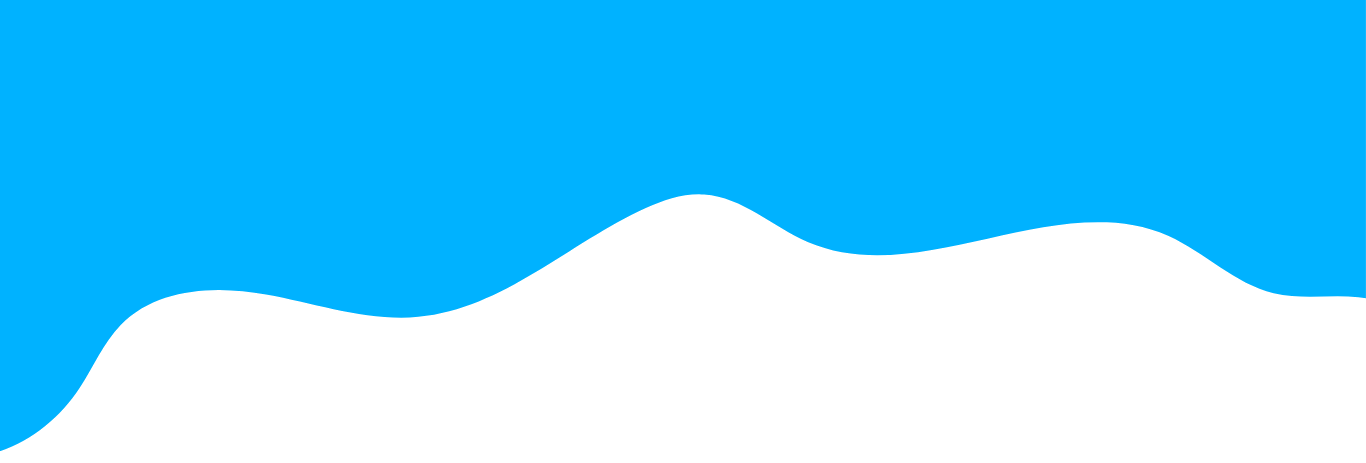
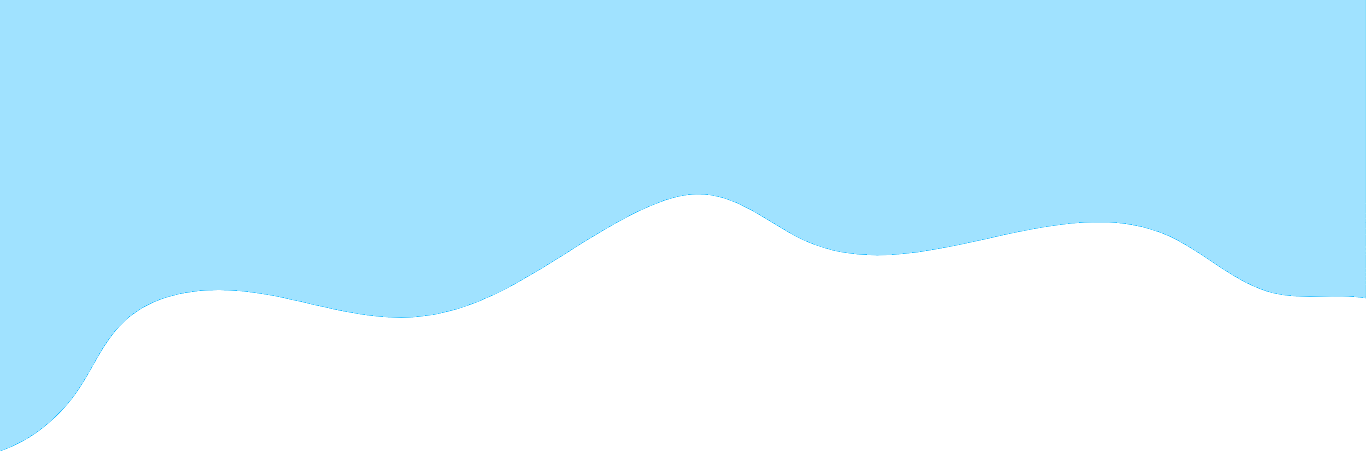
up

diff --git a/styles/style.css b/styles/style.css
@@ -192,7 +192,7 @@ li#ctt{
     height: 100%;
     position: relative;
     bottom: 200px;
-    right: 100px;
+    right: 120px;
     
     
 }
@@ -298,8 +298,8 @@ li#ctt{
 
 .controle img{
     position: relative;
-    height: 80vh;
-    width: 50%;
+    height: 70vh;
+    width: 45%;
     top: 170px;
     left: 100px;
     z-index: 3; /* menor que o texto */
@@ -312,6 +312,16 @@ li#ctt{
     alternate; /* Mantém alternando - ajuda na suavidade */
     
     transition: 1s;
+    
+}
+.controle img:hover{
+    cursor: pointer;
+    transform: scale(.95);
+    
+}
+.controle img:active{
+    transition-duration: 1s;
+    transform: scale(.70);
     
 }
 
@@ -347,7 +357,7 @@ li#ctt{
     justify-content: center;
     align-items: center;
     flex-direction: column;
-    background-color:#ffee00;
+    background-color:#fff9a9;
     width: 100vw;
     height: 100%;
     
@@ -475,7 +485,7 @@ li#ctt{
 /*                                   Conteúdo > conteudo                                   */
 
 .conteudo{
-    background-color:#00b2ff;
+    background-color:#a0e2ff;
     width: 100vw;
     height: 150%;
     border-radius: 40px 40px 0 0;
@@ -572,7 +582,7 @@ li#ctt{
 
 
 .blog{
-    background-color:#00b2ff;
+    background-color:#a0e2ff;
     width: 100vw;
     height: 100%;
    
@@ -595,7 +605,7 @@ li#ctt{
     
 }
 .bloxTexto h1{
-    text-shadow: 0px 1px 249px rgba(0, 0, 0, 0.315);
+    text-shadow: 0px 1px 249px rgba(0, 0, 0, 0.671);
     color: yellow;
     font-size: 120px;
     text-align: center;
@@ -606,7 +616,7 @@ li#ctt{
     
 }
 .bloxTexto p{
-    color: rgba(255, 255, 255, 0.582);
+    color: rgba(0, 0, 0, 0.582);
     font-size: 30px;
     text-align: center;
     line-height: 50px;
@@ -617,13 +627,13 @@ li#ctt{
     
 }
 .bloxTexto h2{
-    color: rgb(241, 241, 127);
+    color: rgb(255, 255, 0);
     font-size: 30px;
     text-align: center;
     position: relative;
     top: 95px;
     font-family: "Libre Baskerville", serif;
-    text-shadow: 0px 1px 249px rgba(0, 0, 0, 0.315);
+    text-shadow: 0px 1px 249px rgb(0, 0, 0);
     
 }
 .blogImg{
@@ -704,7 +714,7 @@ li#ctt{
     display: flex;
     justify-content: center;
     align-items: center;
-    background-color: #00e8ff;
+    background-color: #b2f6fc;
 
 }
 .faq p{

diff --git a/index.html b/index.html
@@ -312,7 +312,7 @@
         <section class="blog" id="idblog">
             <div class="bloxTexto">
                 <h1>Você Sabia?</h1>
-                <p>AO FINAL DA HIGIENIZAÇÃO VOCÊ RECEBE O CERTIFICADO, APROVADO PELA ANVISA DE 3 MESES SEGURO CONTRA BACTÉRIAS E FUNGOS!</p>
+                <p>Ao final da higienização você recebe o certificado, aprovado pela anvisa de 3 meses seguro contra bactérias e fungos!</p>
                 <h2>VIVA MELHOR!</h2>
             </div>
 
@@ -404,7 +404,7 @@
                 
                 <div class="controle_icon">
                     
-                    <a href="mailto:luizpierino@hotmail.com"><i class="bi bi-envelope-arrow-up-fill" id="email"></i> email@gmail.com</a>
+                    <a href="mailto:gleycon.gl@icloud.com"><i class="bi bi-envelope-arrow-up-fill" id="email"></i>gleycon.gl@icloud.com</a>
     
                     <a href="https://wa.me/5514988390737" target="_blank"><i class="bi bi-whatsapp" id="wpp"></i></a>
                 </div>

diff --git a/styles/carrossel.css b/styles/carrossel.css
@@ -53,7 +53,7 @@
    
 }
 .naveManual .manualBtn, .naveAuto div{
-    border:  2px solid rgb(255, 255, 255);
+    border:  2px solid rgba(0, 0, 0, 0.438);
     padding: 10px;
     border-radius: 50%;
     cursor: pointer;
